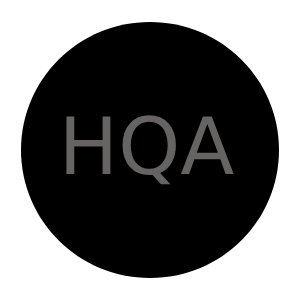
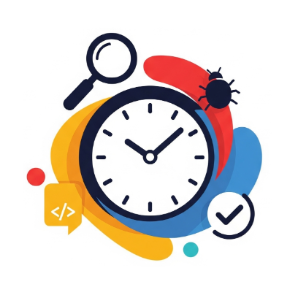
Trocando imagem

diff --git a/index.html b/index.html
@@ -10,7 +10,7 @@
 </head>
 <body>
     <div class="image-container">
-        <img src="hqa.png" alt="HQA">
+        <img src="hqa.png" alt="Hora do QA">
         <h2>Hora do QA</h2>
     </div>
 